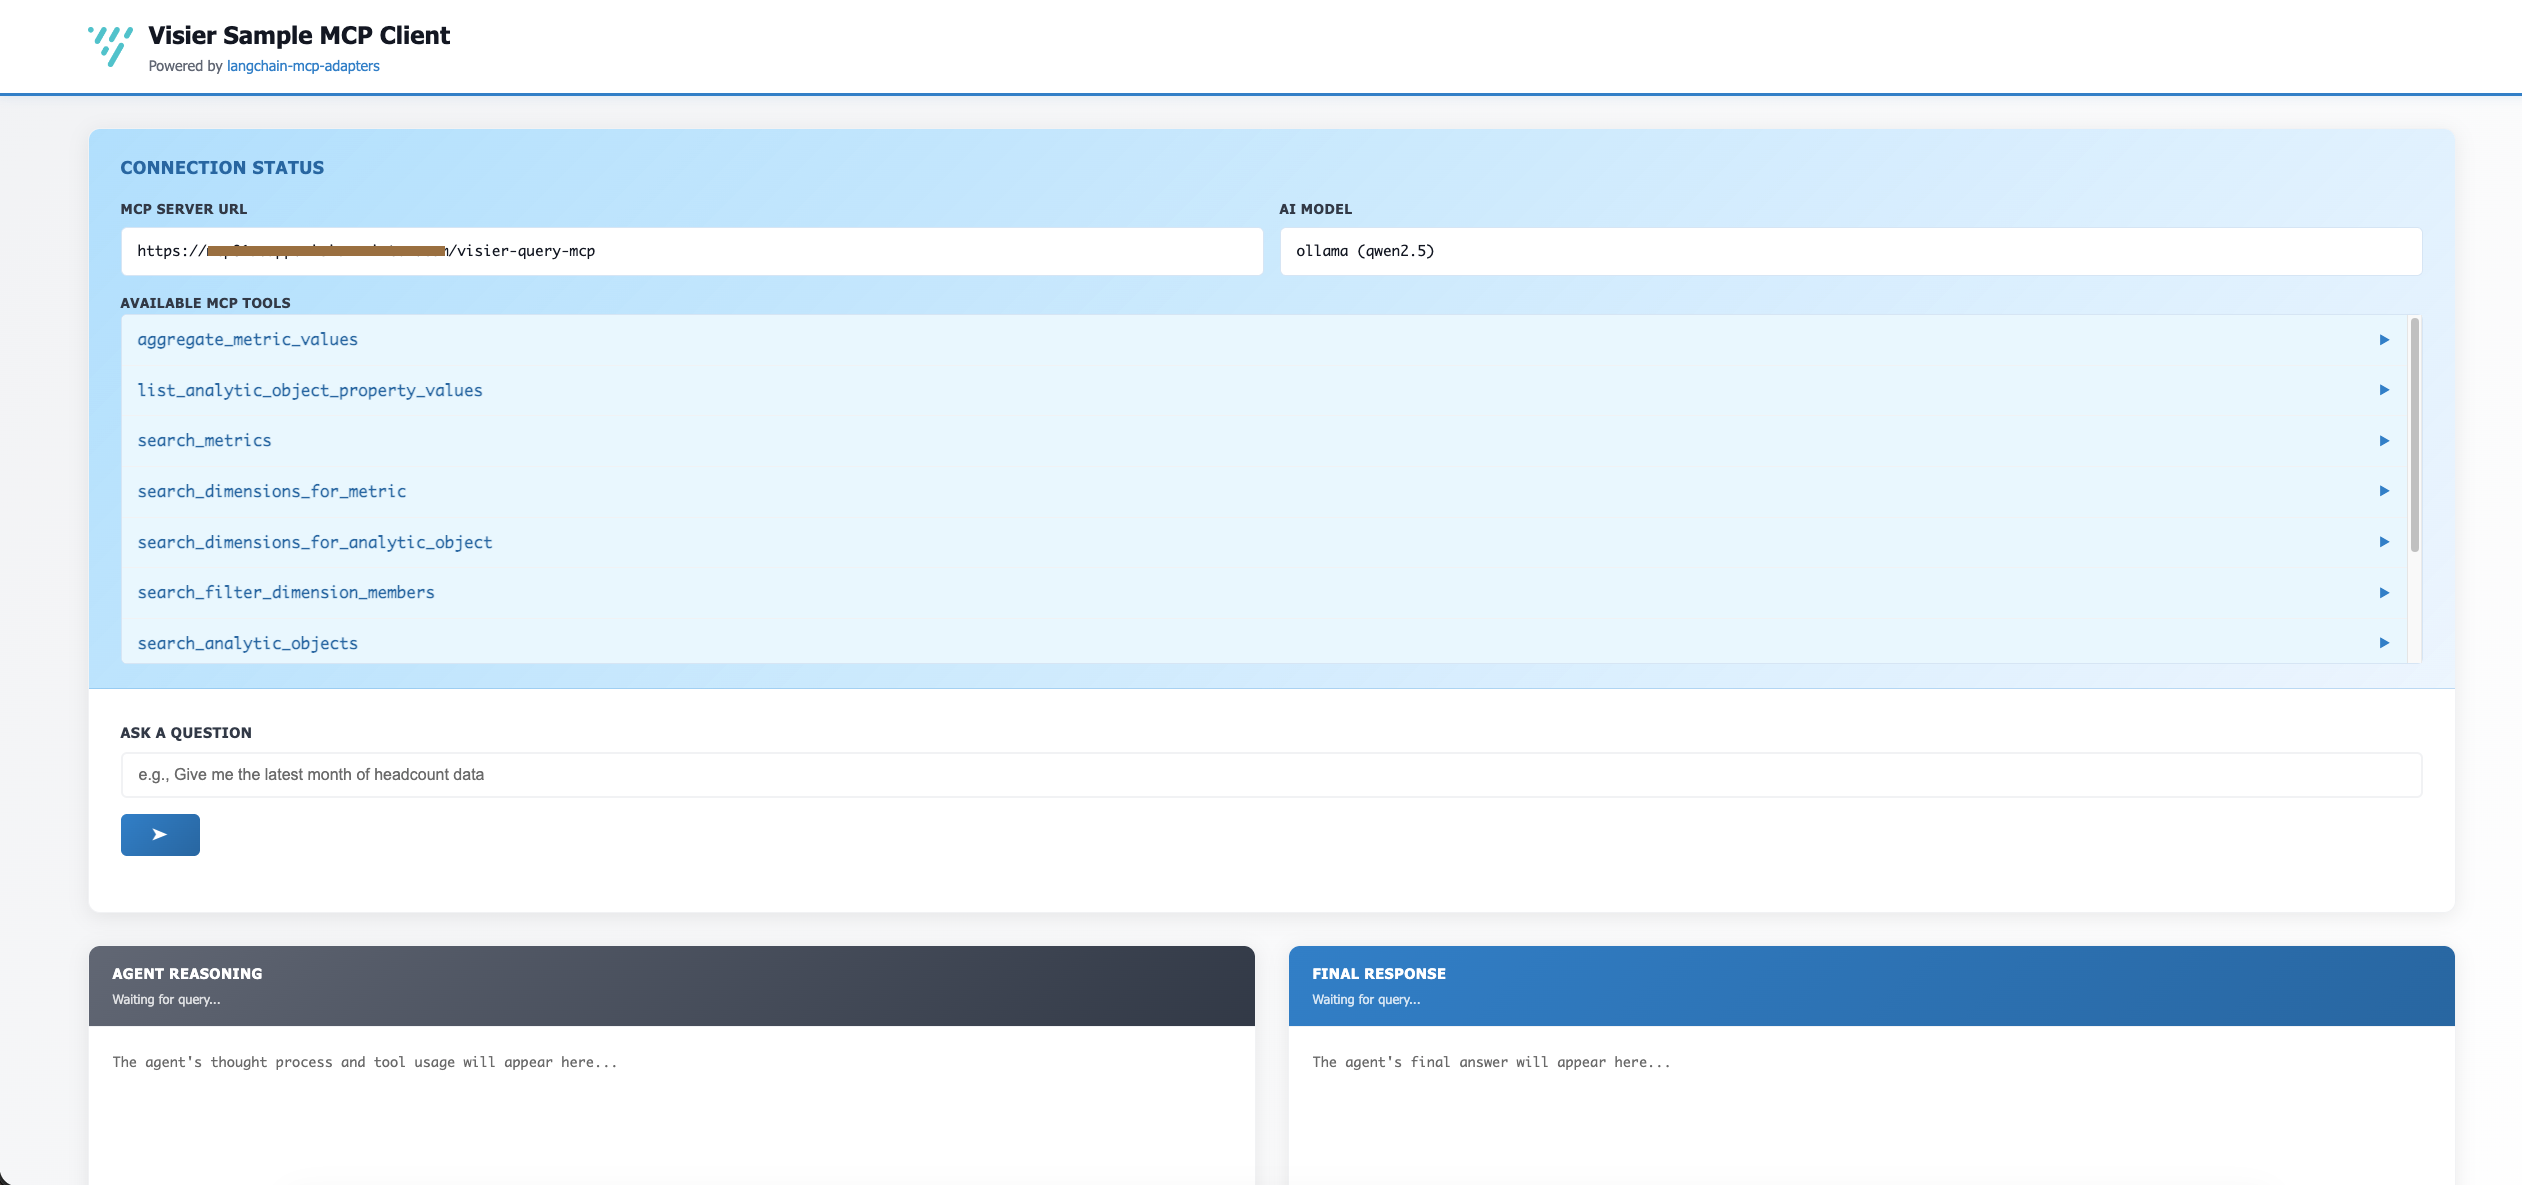
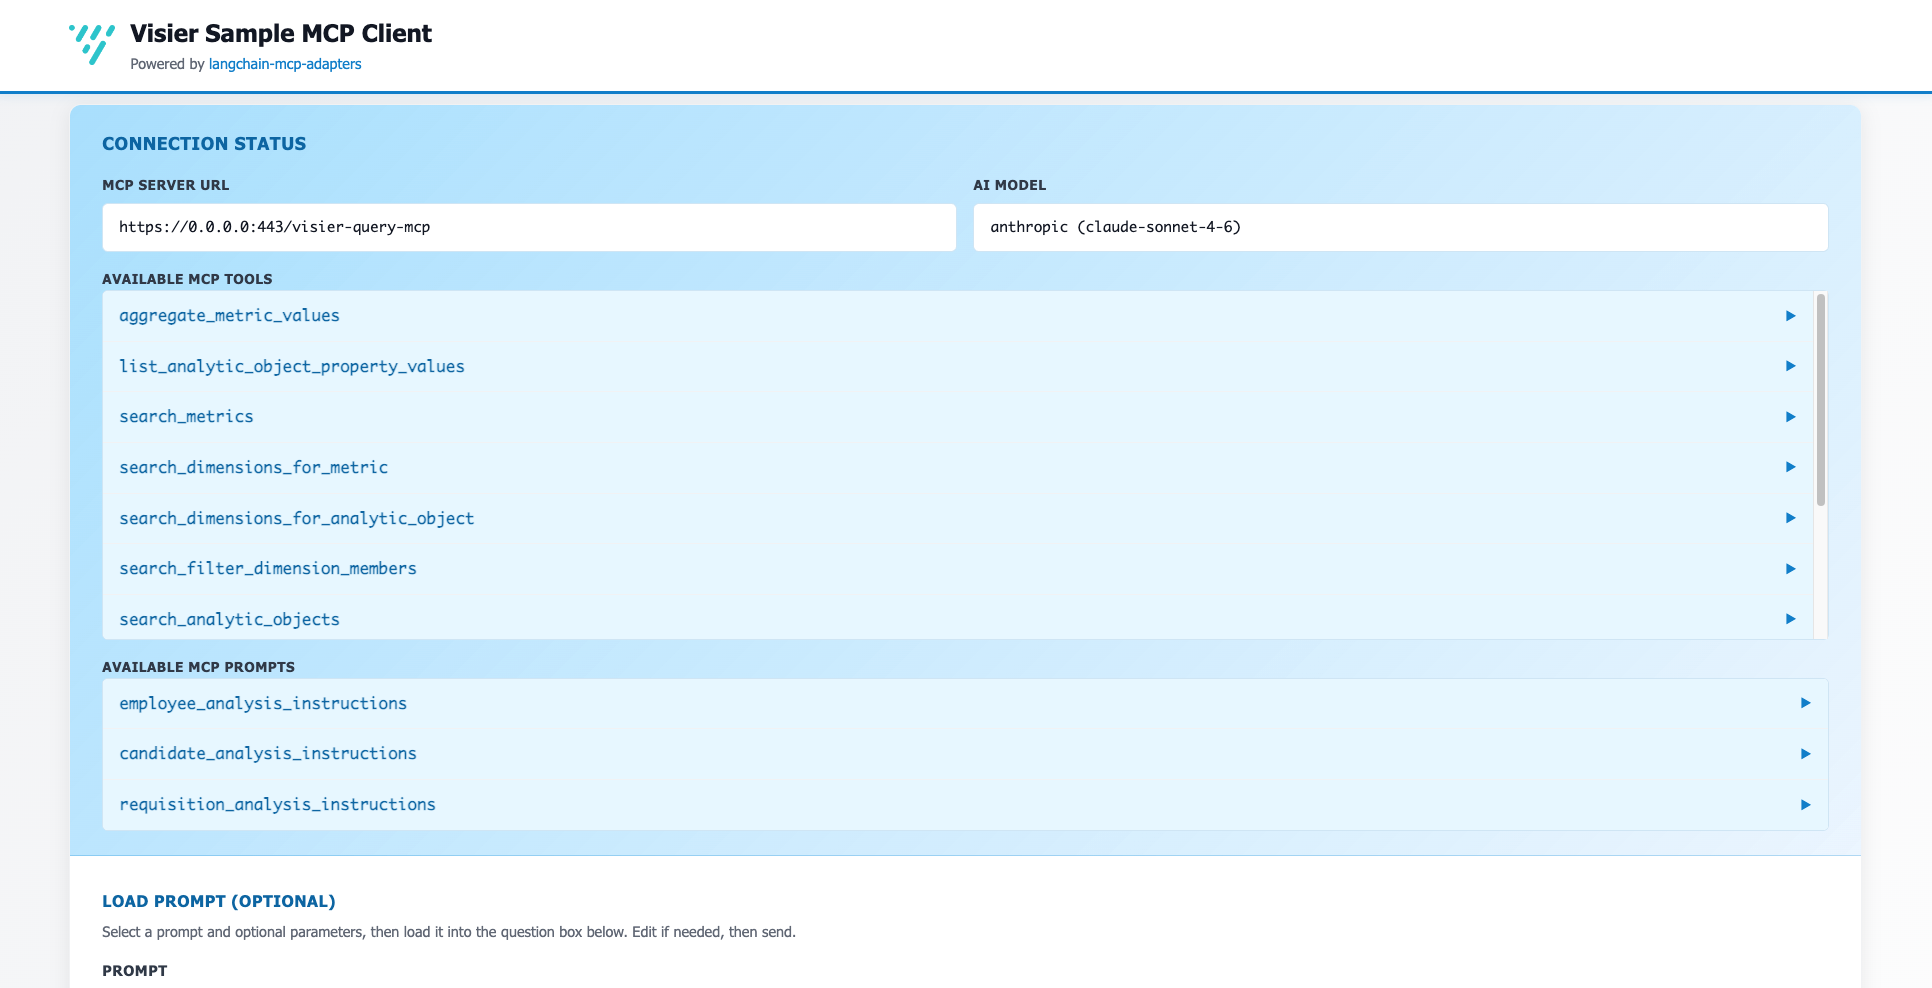
update doc with new images

Changed region(s): [[0.0, 0.0, 1.0, 1.0]]

diff --git a/README.md b/README.md
@@ -14,6 +14,9 @@ This project provides a LangGraph MCP (Model Context Protocol) client for connec
 ![Ask question and get results](docs/images/ask_question_result.png)
 *Ask a question and see the agent's reasoning and response.*
 
+![Select a prompt](docs/images/pick_prompt.png)
+*Select a prompt and click Load Prompt Into Question to use a prompt.*
+
 ## Features
 
 - **OAuth 2.0 Authentication**: Secure connection to your Visier tenant
